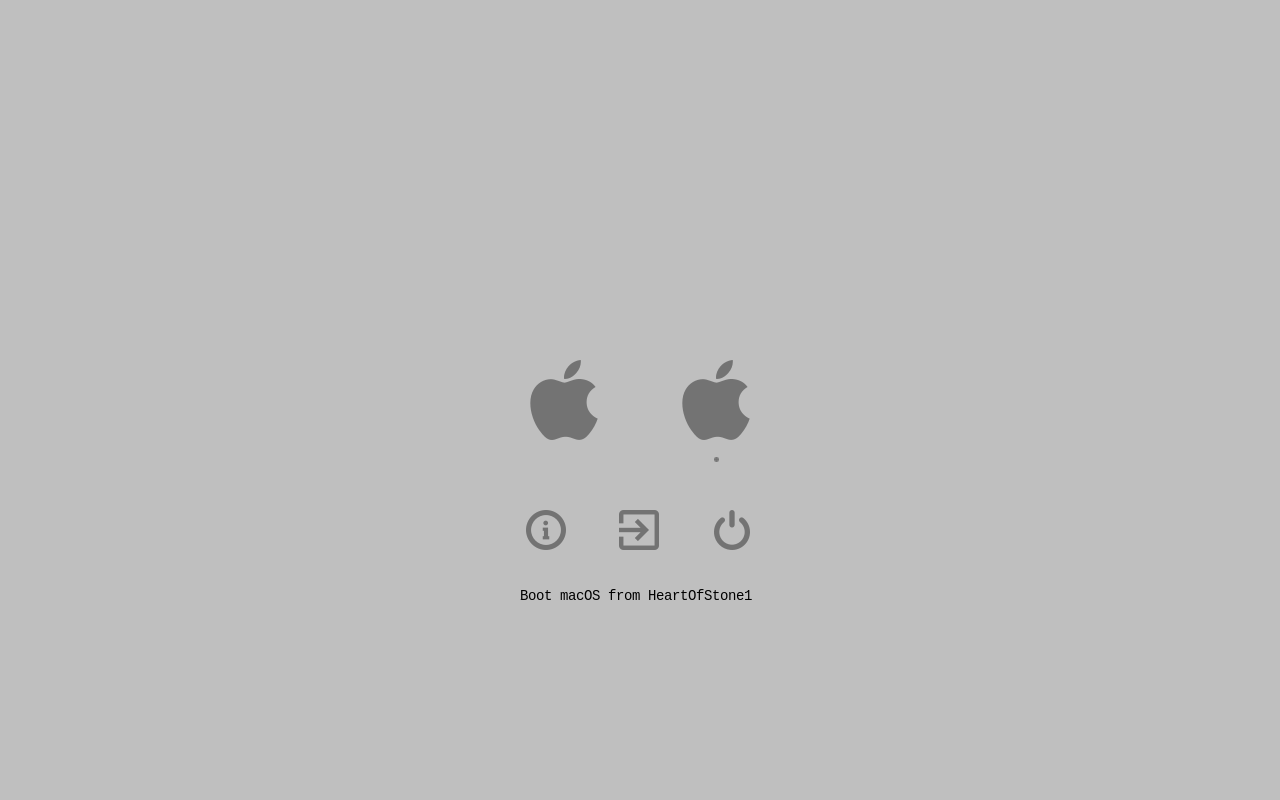
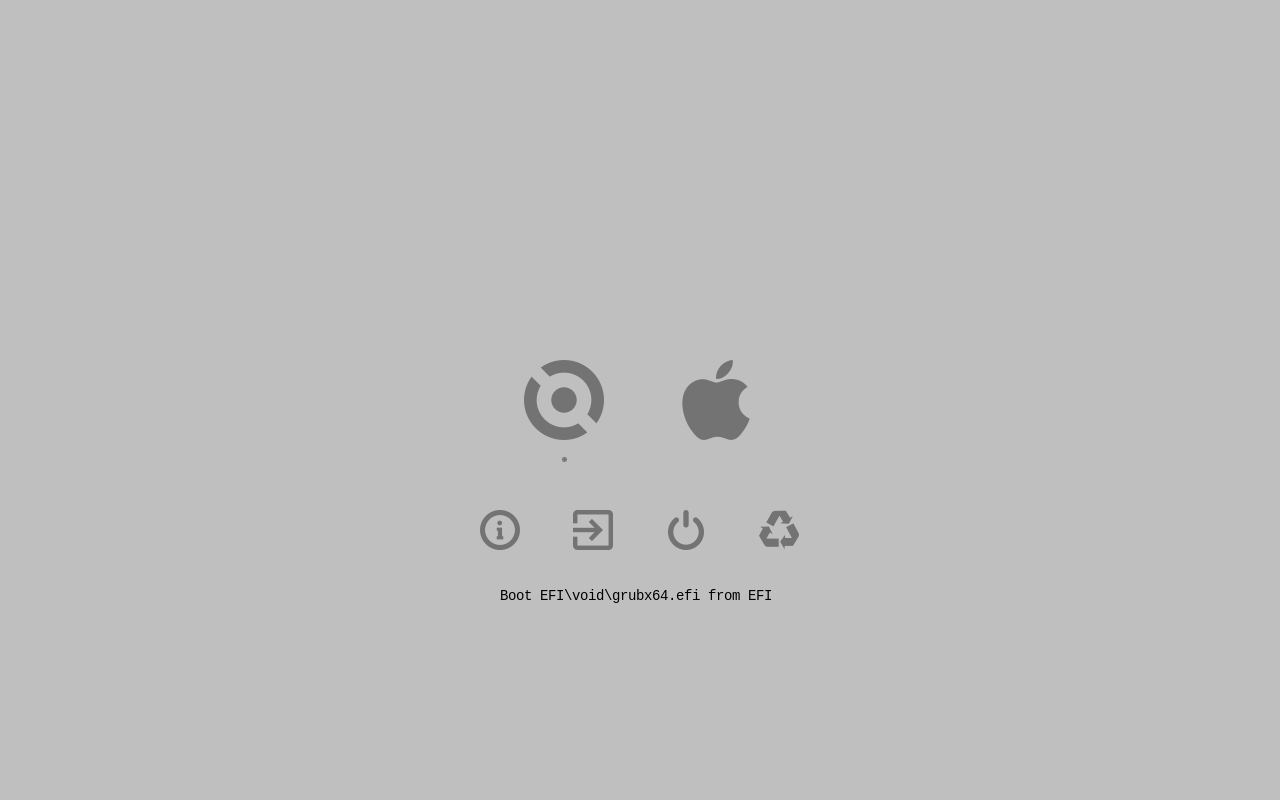
more screenshots with linux

Changed region(s): [[0.375, 0.625, 0.625, 0.6875], [0.4062, 0.4375, 0.4688, 0.5625], [0.375, 0.7188, 0.5938, 0.75]]

diff --git a/README.md b/README.md
@@ -2,7 +2,7 @@ Grey Apple rEFInd theme (WIP)
 =============================
 
 
-![Screenshot: Press F10. Saved to ESP root.](screenshots/screenshot_001.png)
+![Press F10 to save screenshots to ESP root](screenshots/animation.gif)
 
 
 Based on (most icons and config):
@@ -16,11 +16,11 @@ Roadmap:
 * [x] Make selection dots
 * [x] Restore some text and functions? Look at config info
 * [x] Preliminary screenshot
-* [ ] Make the function icons smaller (and remove some)
-* [ ] Hide double apple
-* [ ] Install something other than macos
-* [ ] Screenshot with linux
-* [ ] Animated screenshot like [this genius](https://github.com/Chrisae9/rEFInd-mountain)
+* [x] Make the function icons smaller (and remove some)
+* [x] Hide double apple
+* [x] Install something other than macos
+* [x] Screenshot with linux
+* [x] Animated screenshot like [this genius](https://github.com/Chrisae9/rEFInd-mountain)
 * [ ] Add linux install/config instructions to README
 * [ ] Clean up SVGs (get rid of inkscape bloat)
 * [ ] More icons?
@@ -77,3 +77,4 @@ Other cool themes I spotted:
   * https://github.com/Wooniety/rEFInd-theme-Genshin-Impact
   * https://github.com/Chrisae9/rEFInd-mountain
   * https://github.com/josephsurin/refind-theme-circle
+* The rEFInd website also has a list of themes.
